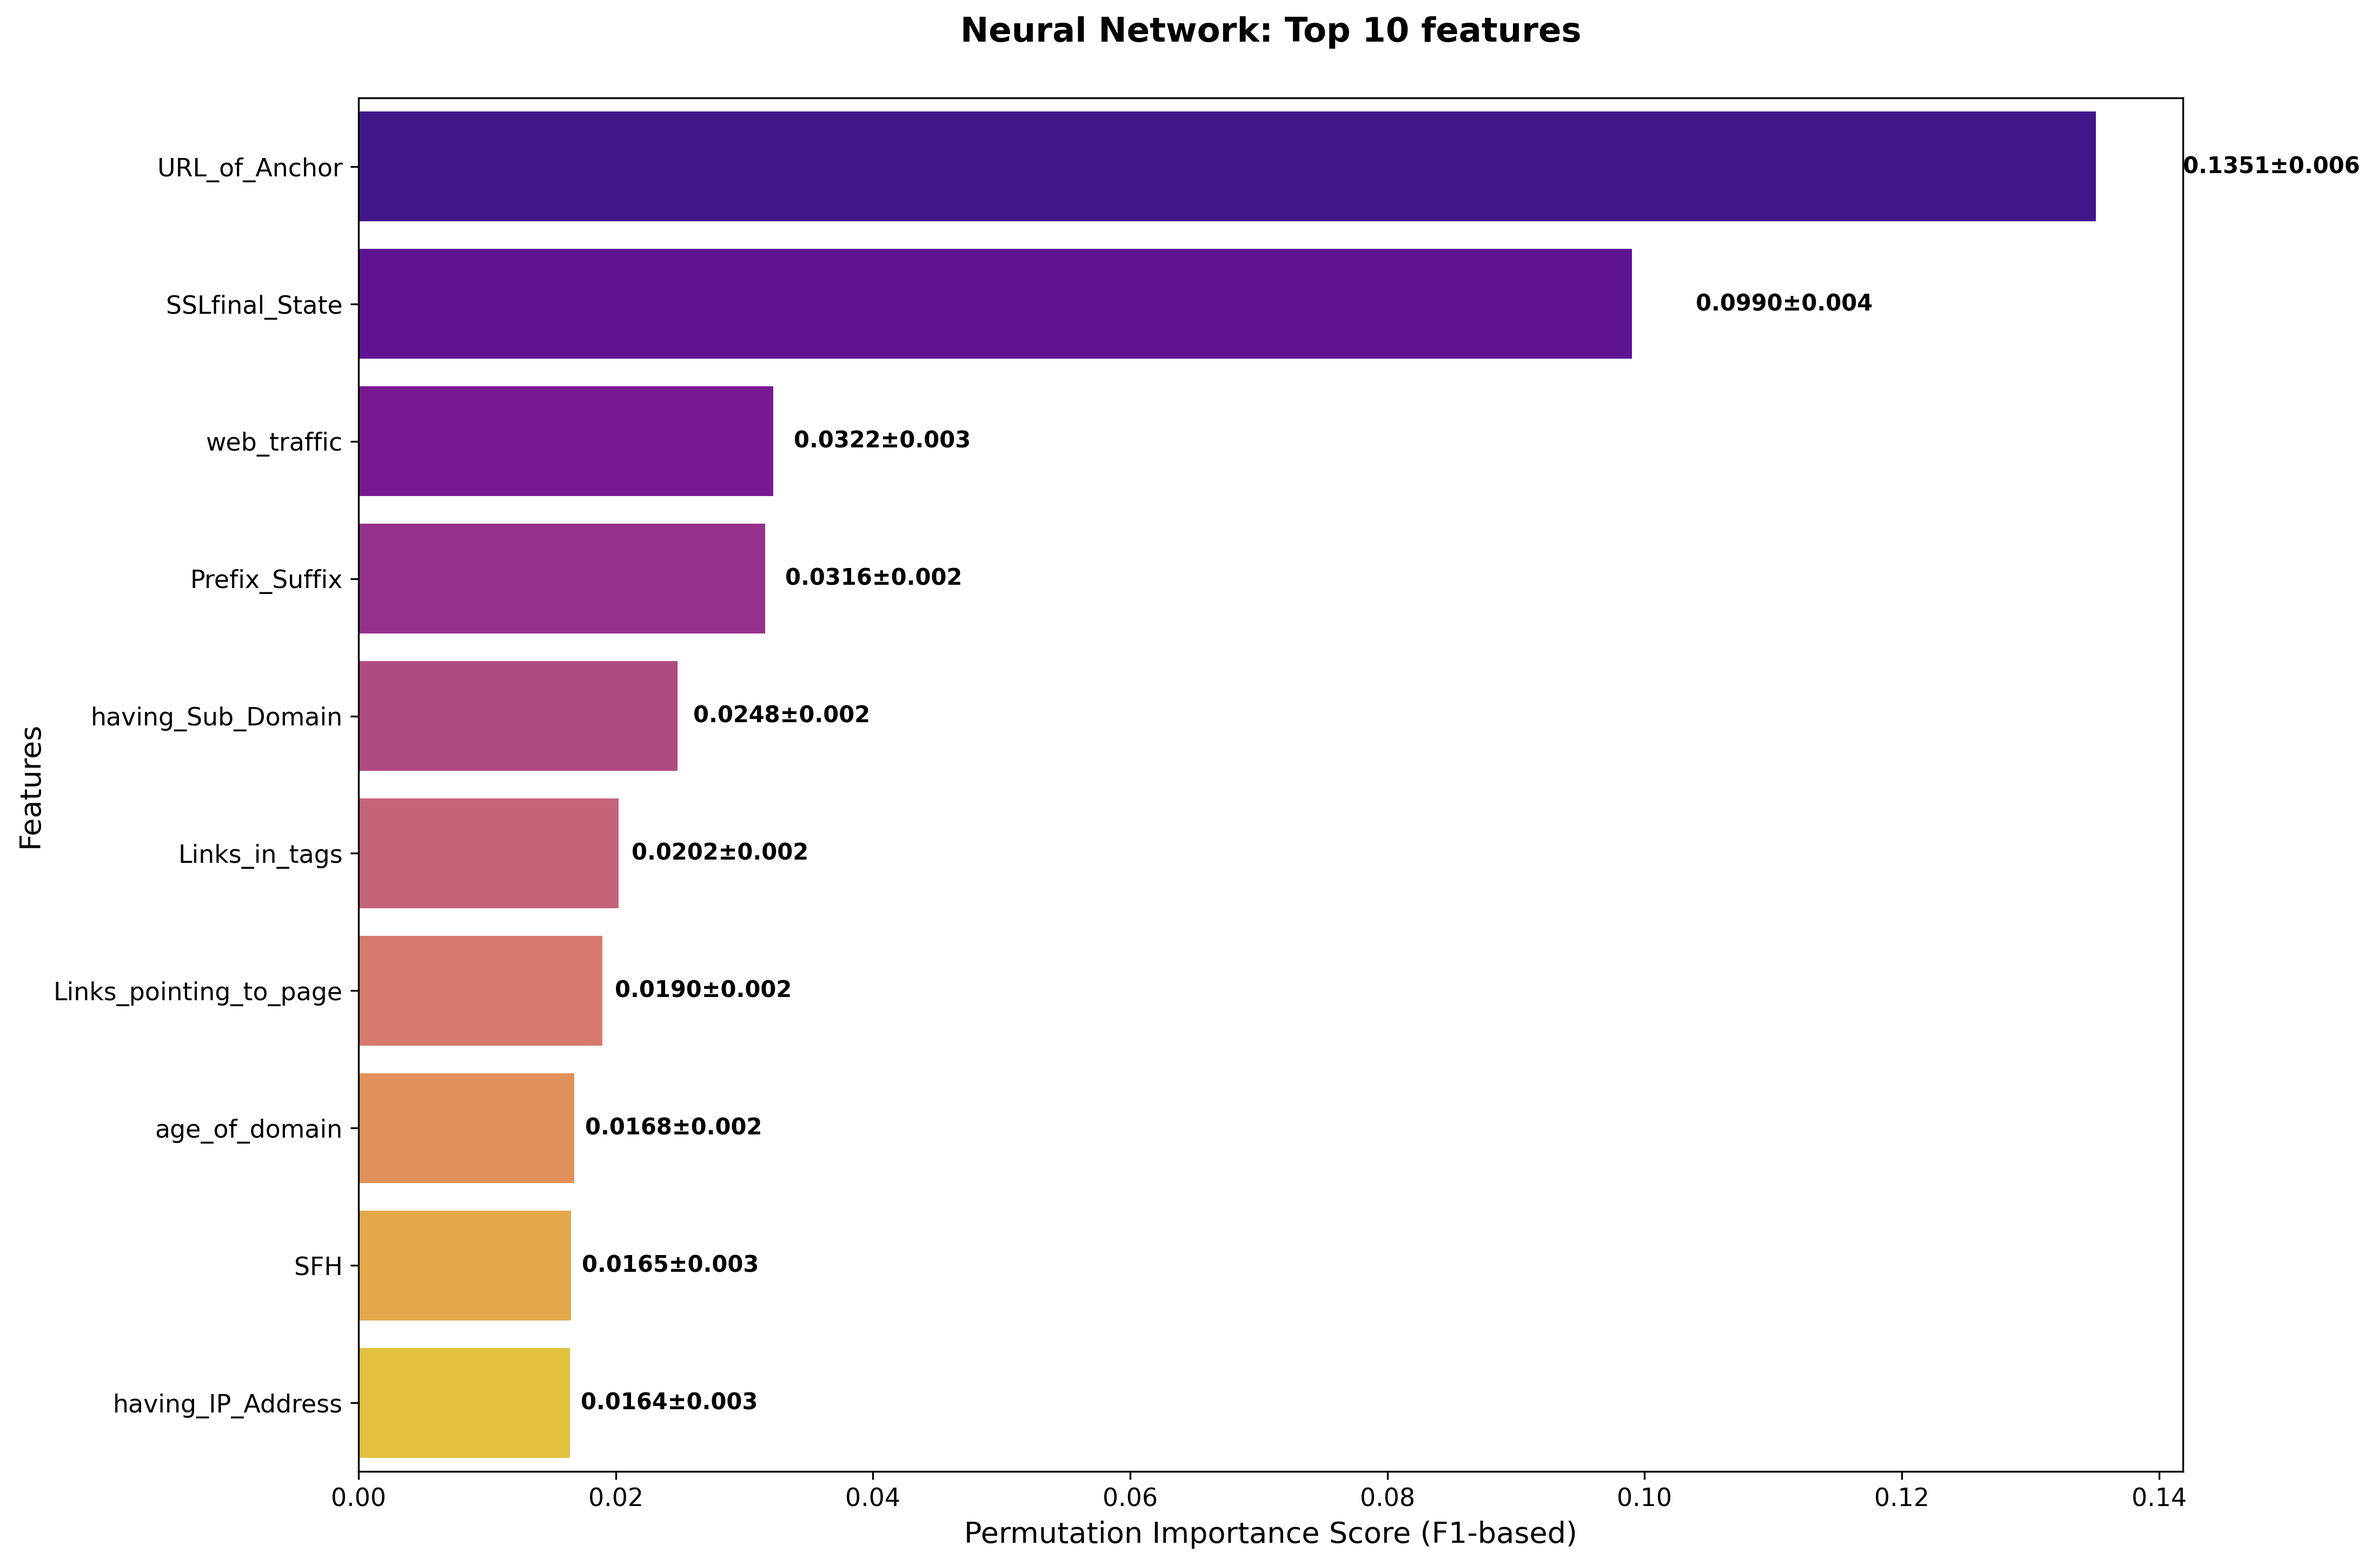
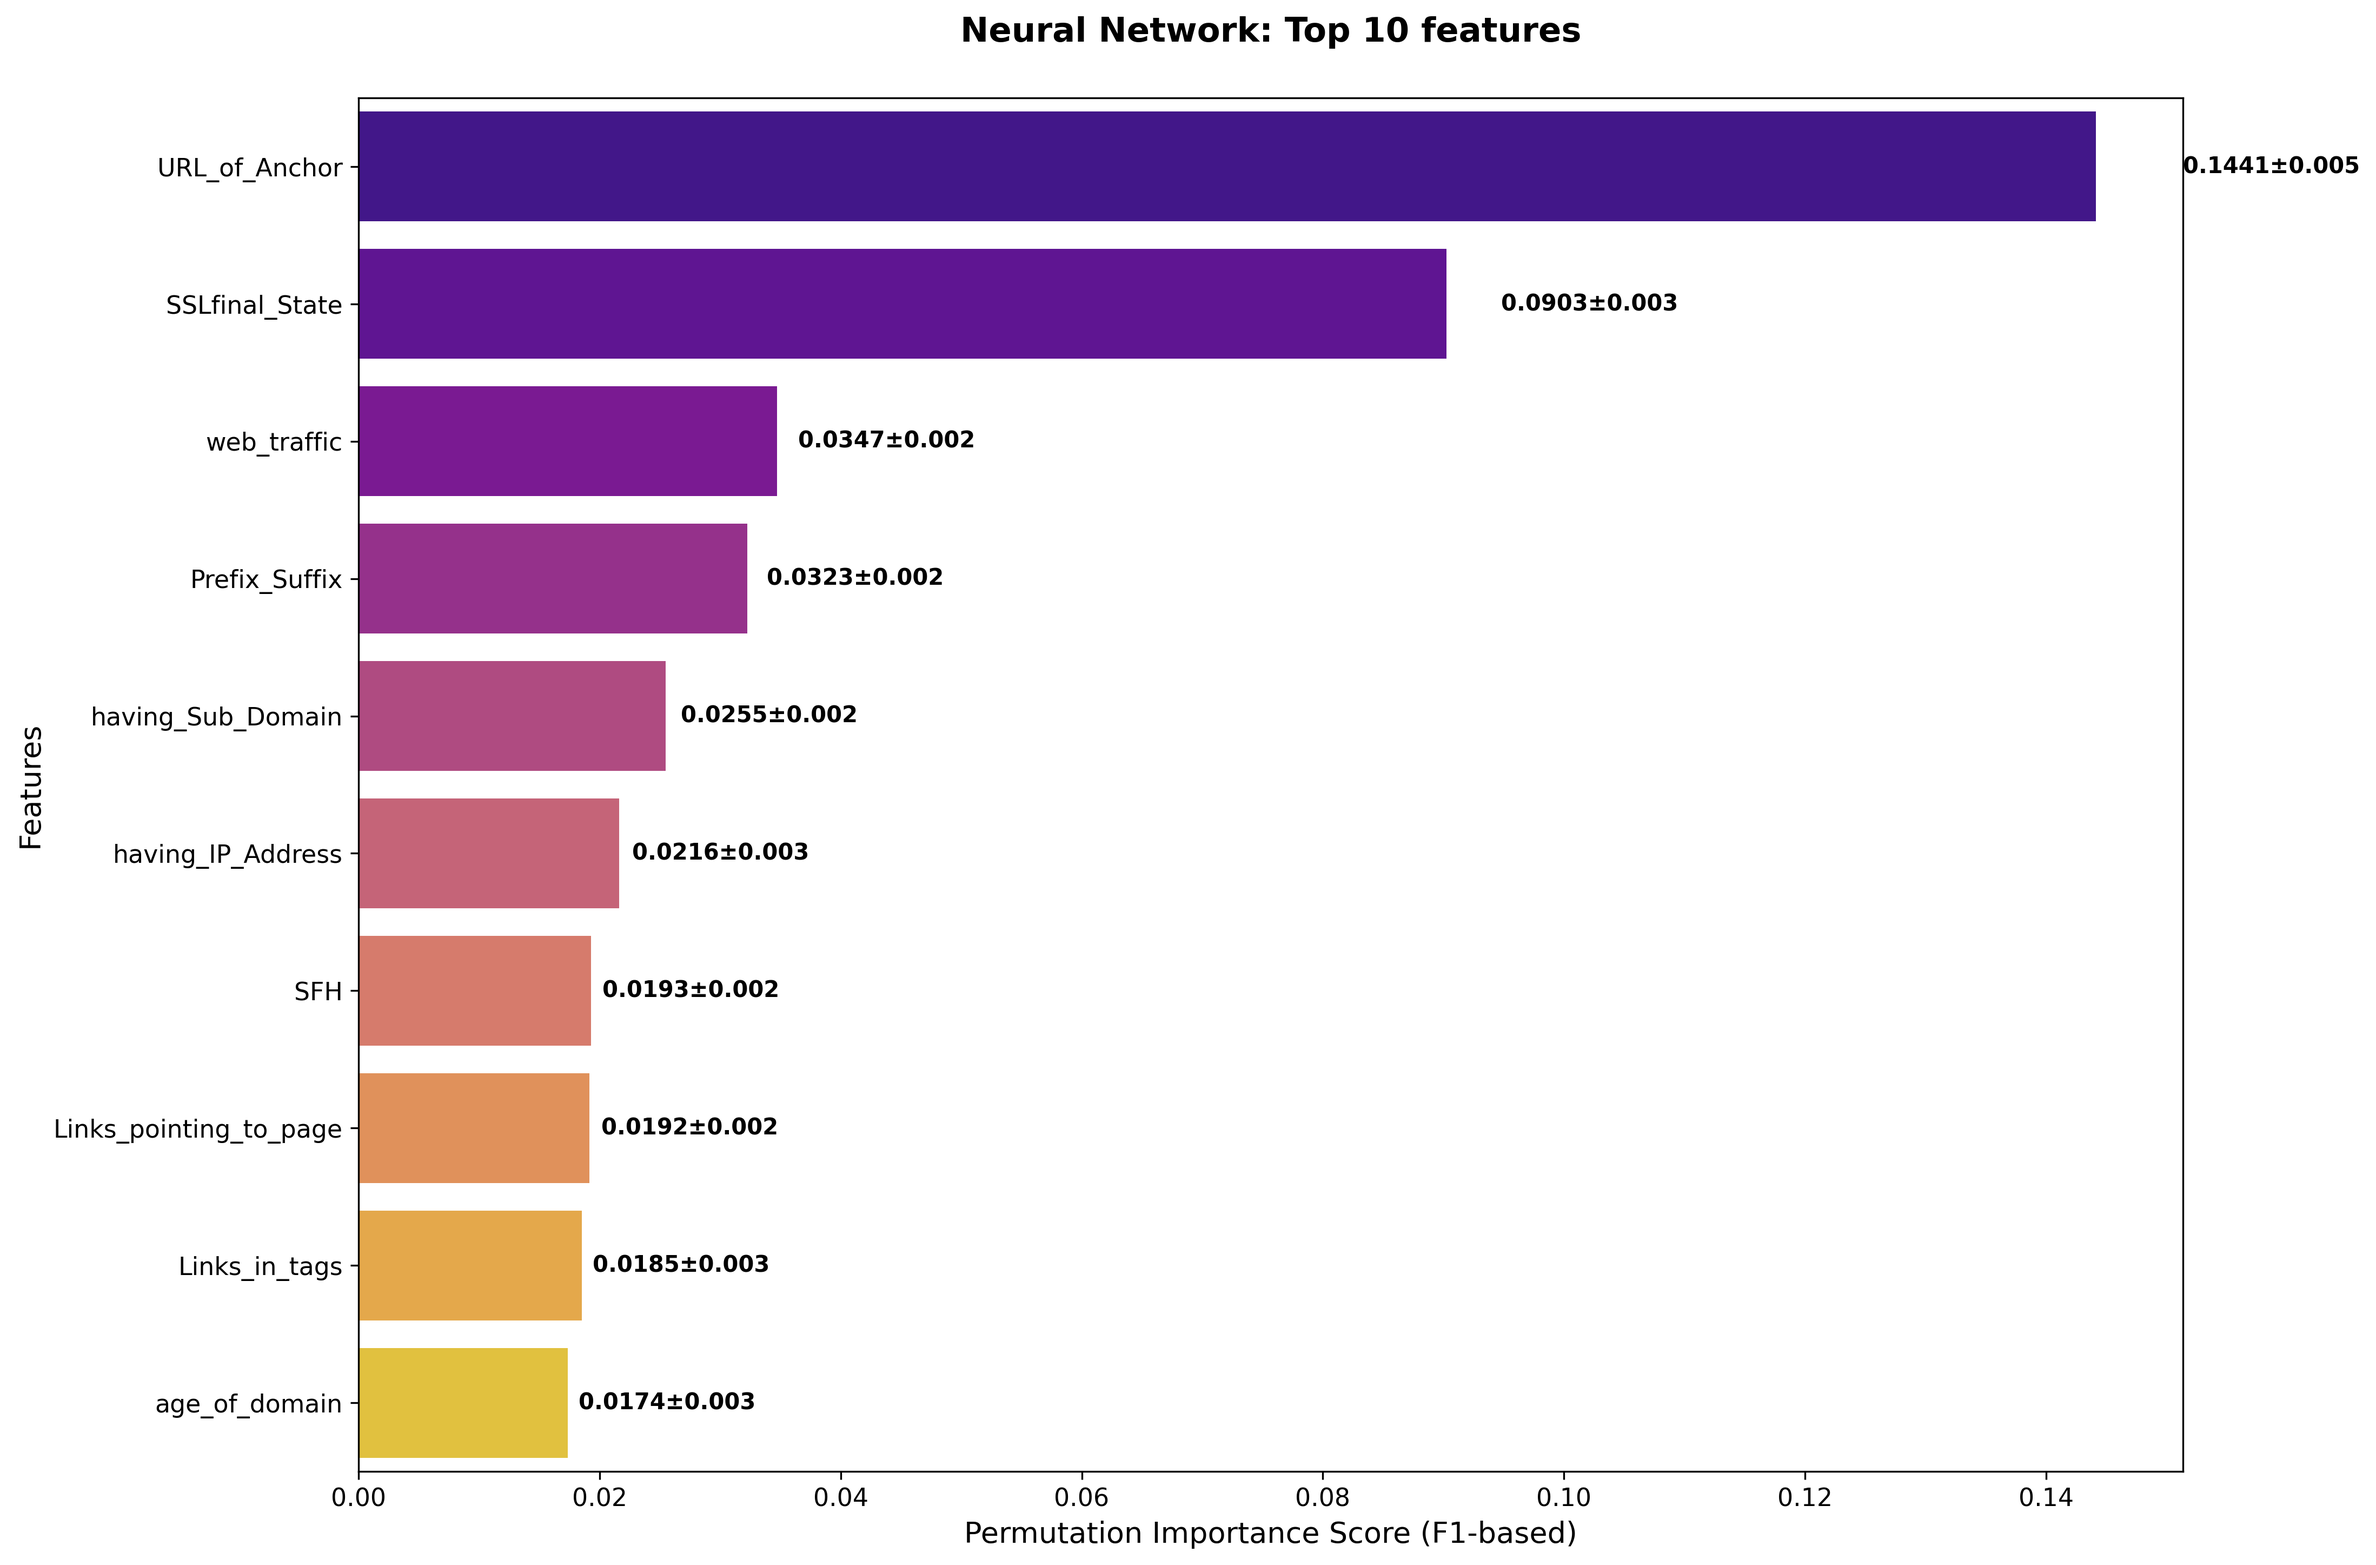
Minor improvements to DNN model and ran feature importance on new DNN model

diff --git a/src/run_dnn.py b/src/run_dnn.py
@@ -1,28 +1,58 @@
 """
 run_dnn.py
 -----------
-Train and evaluate a PyTorch Deep Neural Network (DNN) for phishing website detection.
+Train and evaluate a PyTorch Deep Neural Network (DNN) for phishing website detection
+with comprehensive hyperparameter tuning and architecture search.
 
 This script:
 1. Loads pre-split train/test data from data/processed/
-2. Builds and trains a PyTorch DNN with architecture search and hyperparameter tuning
-3. Tests different network architectures: [64,32], [128,64], [256,128,64], [128,64,32]
-4. Evaluates the best model on the test set
-5. Saves performance metrics to results/metrics_summary.csv (appends if exists)
-6. Generates and saves a confusion matrix visualization
+2. Performs extensive search over multiple hyperparameters
+3. Identifies the best model configuration based on validation F1-score
+4. Retrains the best model on full training data with extended epochs
+5. Evaluates the final model on the test set
+6. Saves performance metrics to results/metrics_summary.csv (appends if exists)
+7. Generates and saves a confusion matrix visualization
+
+Hyperparameter Grid Search:
+    - Network Architectures: [64,32], [128,64], [256,128,64], [128,64,32]
+    - Dropout Rates: 0.1, 0.2, 0.3
+    - Learning Rates: 1e-3, 2e-3, 5e-4
+    - Batch Sizes: 32, 64, 128
+
+Training Process:
+    1. Grid Search Phase:
+       - 80/20 train/validation split (stratified)
+       - Each configuration trained for 100 epochs
+       - F1-score evaluated on validation set
+       - Best hyperparameters identified
+    
+    2. Final Training Phase:
+       - Best model retrained on full training data (100%)
+       - Extended training: 150 epochs
+       - Uses optimal hyperparameters from grid search
+       - Maximizes use of available training data
 
 Features:
     - Automatic feature scaling (StandardScaler)
-    - Dropout regularization (0.2)
-    - Adam optimizer with learning rate 0.001
+    - Dropout regularization (prevents overfitting)
+    - Adam optimizer with configurable learning rate
     - Binary cross-entropy loss
-    - Architecture search with F1-score validation
+    - Early stopping consideration through validation monitoring
+    - Stratified sampling for balanced validation
 
 Outputs:
     - PyTorch model state: results/neural_network.pth
     - Full model object: results/neural_network.pkl (includes scaler)
     - Metrics appended to results/metrics_summary.csv
     - Confusion matrix: results/confusion_matrices/neural_network.png
+
+Model Architecture:
+    - Input layer: 30 features
+    - Hidden layers: Variable (determined by grid search)
+    - Activation: ReLU
+    - Dropout: After each hidden layer
+    - Output layer: Single neuron with sigmoid activation
+    - Loss function: Binary Cross-Entropy
 """
 
 from data_preprocessing import load_split_data

diff --git a/src/model_training.py b/src/model_training.py
@@ -175,7 +175,7 @@ def train_model(model, X_train, y_train, model_name):
     if model_name == "Logistic Regression":
         param_grid = {
             "C": [0.01, 0.1, 1, 10, 100],
-            "penalty": ["l2"],   # if you want L1, switch solver to 'saga'
+            "penalty": ["l2"],  
         }
         grid = GridSearchCV(
             estimator=model,
@@ -229,7 +229,6 @@ def train_model(model, X_train, y_train, model_name):
         best_model = grid.best_estimator_
 
     # -- DNN training and tuning ---
-        # -- DNN training and tuning with multiple hyperparameters ---
     elif model_name == "Neural Network":
         from sklearn.model_selection import train_test_split
         from sklearn.metrics import f1_score
@@ -237,7 +236,6 @@ def train_model(model, X_train, y_train, model_name):
 
         input_size = X_train.shape[1]
 
-        # Single train/val split for fair comparison across all configs
         X_tr, X_val, y_tr, y_val = train_test_split(
             X_train,
             y_train,
@@ -253,7 +251,7 @@ def train_model(model, X_train, y_train, model_name):
             [128, 64, 32],
         ]
         dropout_rates = [0.1, 0.2, 0.3]
-        learning_rates = [1e-3, 5e-4]
+        learning_rates = [1e-3, 5e-3, 1e-4, 5e-4]
         batch_sizes = [32, 64, 128]
 
         best_f1 = -1.0
@@ -273,17 +271,15 @@ def train_model(model, X_train, y_train, model_name):
                 dropout_rate=dropout,
             )
 
-            # Train on the train split with given hyperparams
             dnn_model.fit(
                 X_tr,
                 y_tr,
-                epochs=100,          # you can tune this too if needed
+                epochs=100,         
                 batch_size=batch_size,
                 lr=lr,
                 verbose=False,
             )
 
-            # Evaluate on validation split
             y_val_pred = dnn_model.predict(X_val)
             f1 = f1_score(y_val, y_val_pred)
 
@@ -301,8 +297,6 @@ def train_model(model, X_train, y_train, model_name):
 
         print(f"Best DNN config: {best_params} with F1 = {best_f1:.4f}")
 
-        # Optional: retrain best model on full X_train, y_train with same hyperparams
-        # (good idea if you want to use all data for final model)
         best_model = PyTorchDNN(
             input_size=input_size,
             hidden_layers=best_params["hidden_layers"],
